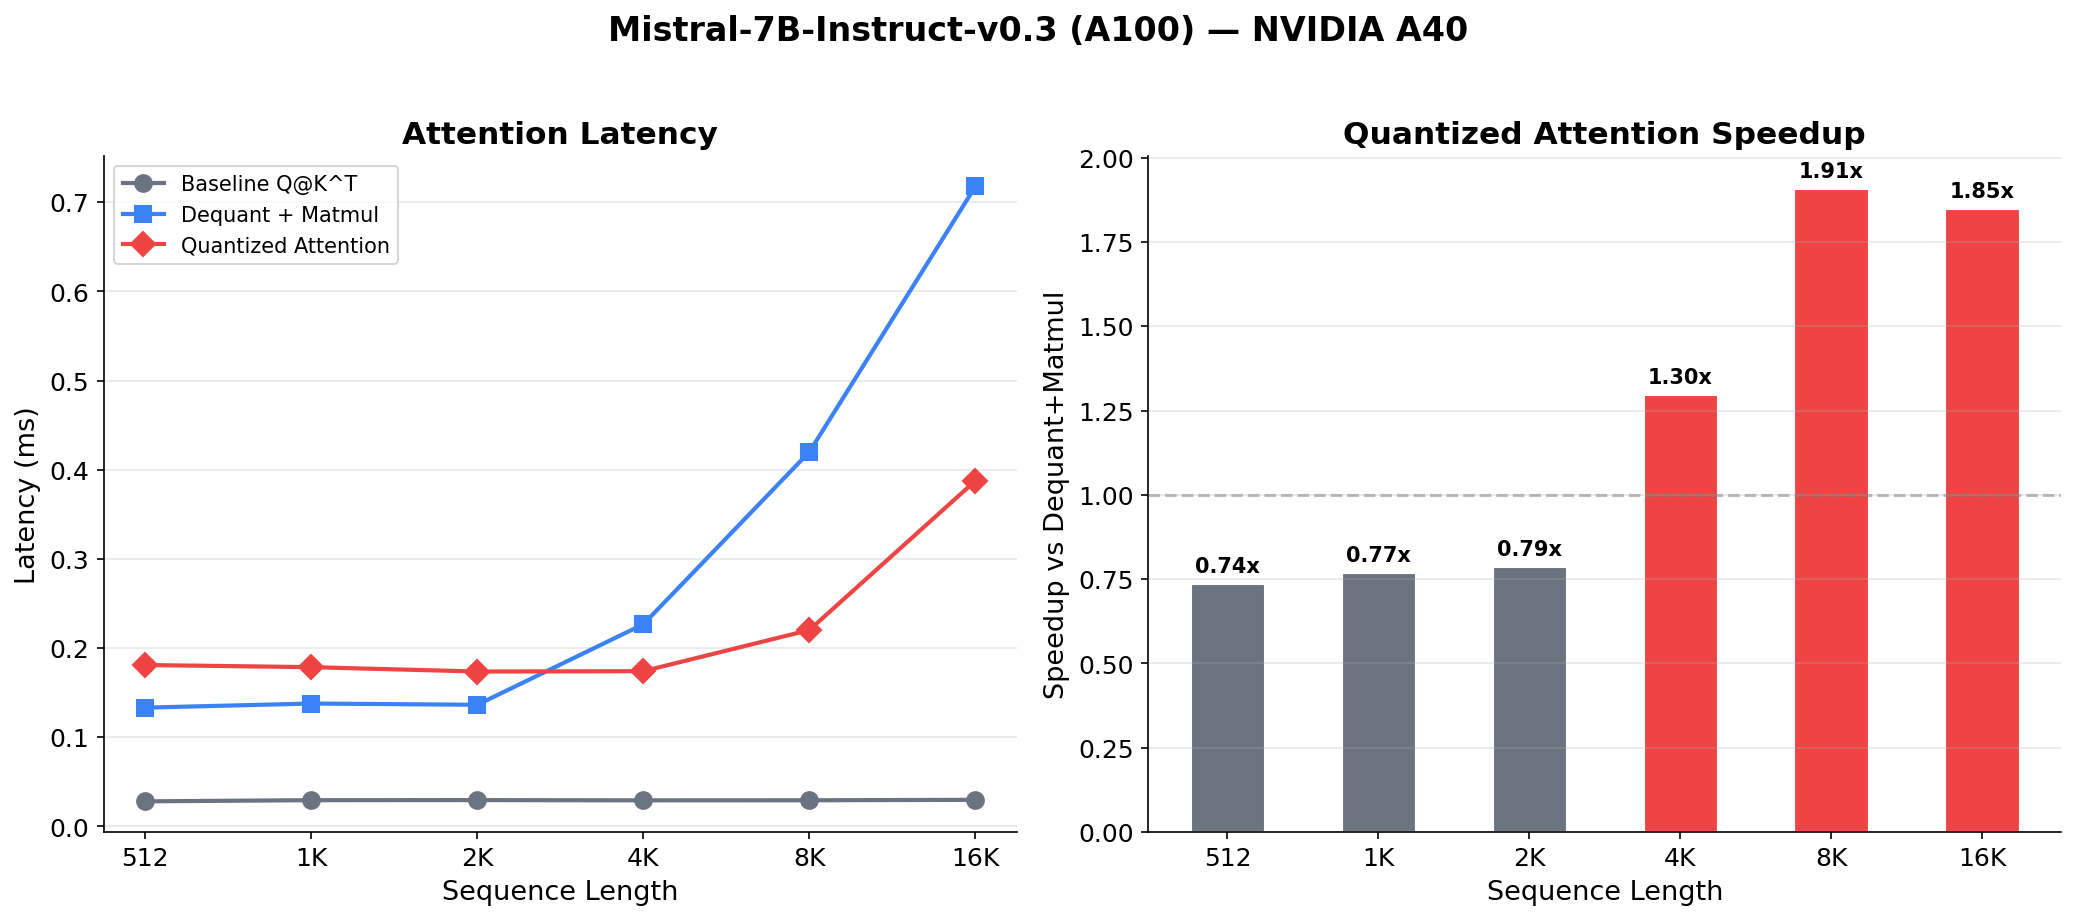
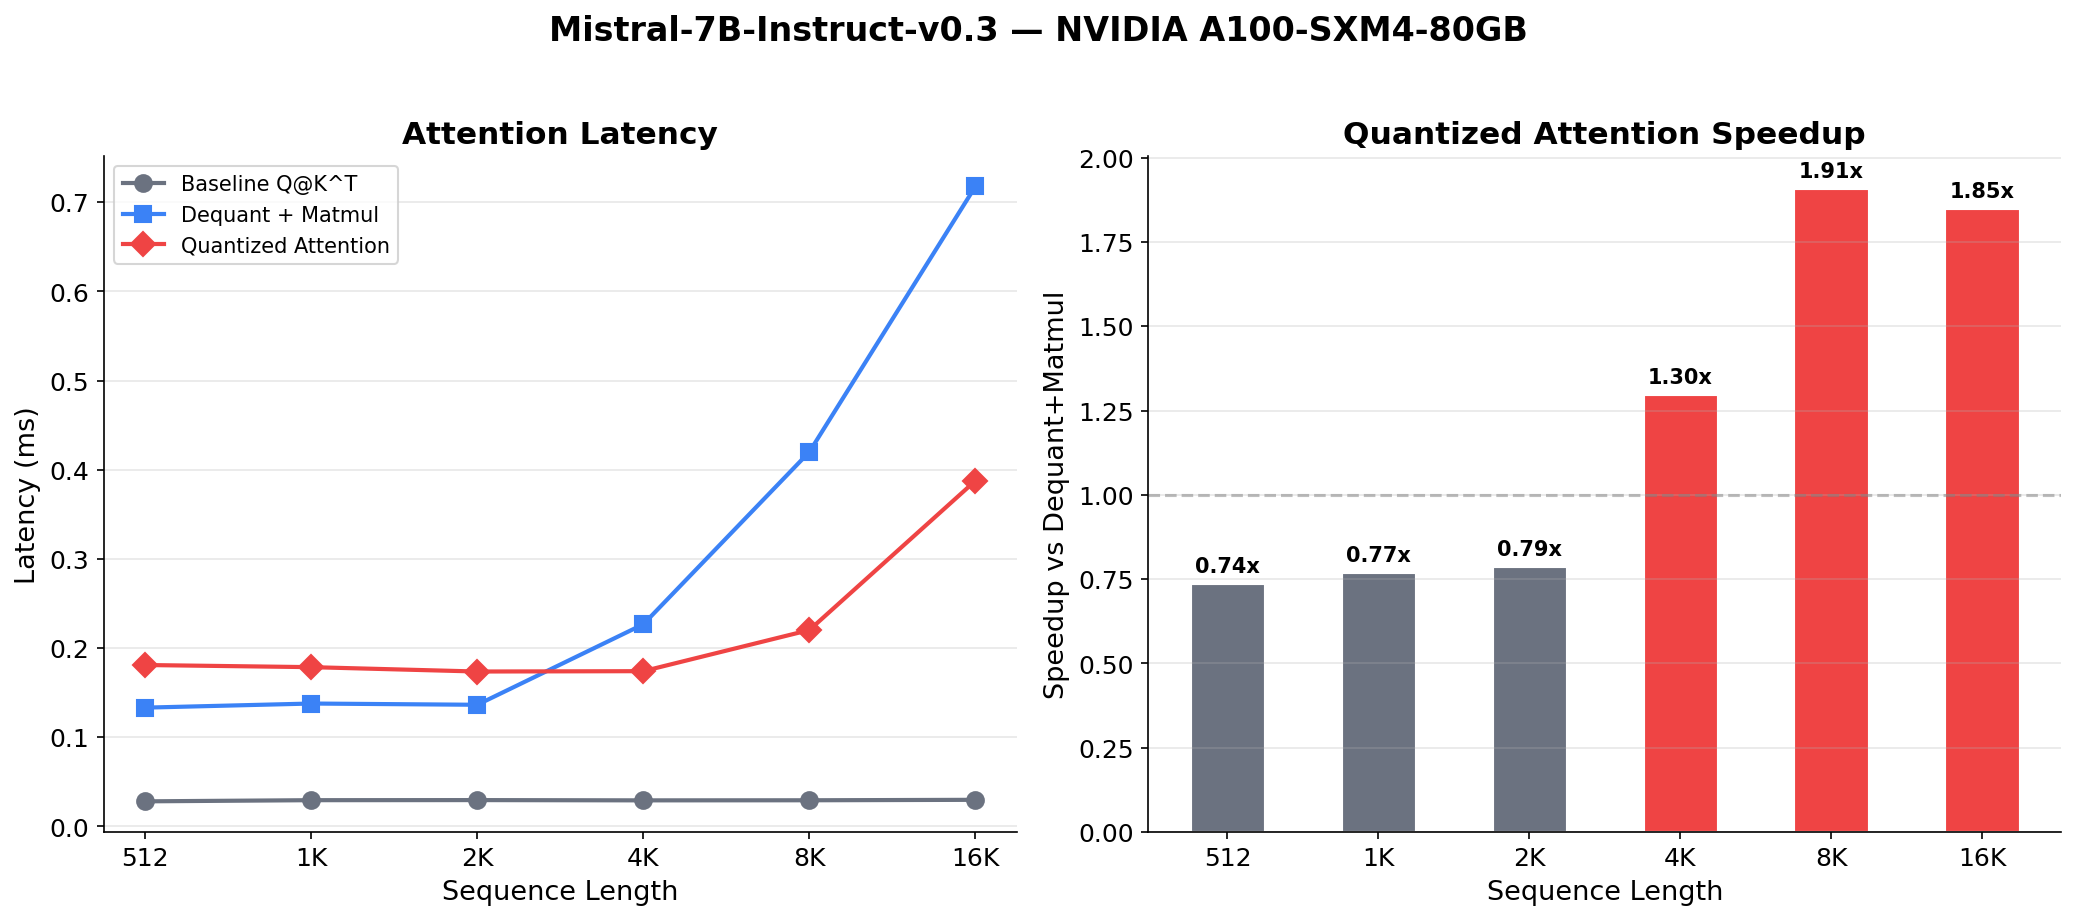
Update chart generation scripts and assets for TurboQuant
- Updated chart titles in generate_charts.py to dynamically reflect the GPU used instead of hardcoding "NVIDIA A40".
- Modified chart generation calls to remove the GPU designation from model names for improved clarity.
- Added new asset images for attention speedup, KV memory, and overview visualizations.

Changed region(s): [[0.2466, 0.0, 0.7399, 0.0609]]

diff --git a/scripts/generate_charts.py b/scripts/generate_charts.py
@@ -96,7 +96,7 @@ def chart_throughput(results, model_name, filename):
                 f'{t:.1f}', ha='center', va='bottom', fontweight='bold', fontsize=12)
 
     ax.set_ylabel('Tokens / sec')
-    ax.set_title(f'Generation Throughput — {model_name} (NVIDIA A40)')
+    ax.set_title(f'Generation Throughput — {model_name} ({results.get("gpu", "GPU")})')
     ax.set_ylim(0, max(tps) * 1.25)
     _clean_axes(ax)
 
@@ -128,7 +128,7 @@ def chart_compression_vs_speed(results, model_name, filename):
 
     ax.set_xlabel('Compression Ratio (vs FP16)')
     ax.set_ylabel('Generation (tokens/sec)')
-    ax.set_title(f'Compression vs Speed — {model_name} (NVIDIA A40)')
+    ax.set_title(f'Compression vs Speed — {model_name} ({results.get("gpu", "GPU")})')
     ax.spines['top'].set_visible(False)
     ax.spines['right'].set_visible(False)
     ax.grid(alpha=0.3)
@@ -178,7 +178,8 @@ def chart_attention_speedup(results, model_name, filename):
     ax2.set_title('Quantized Attention Speedup')
     _clean_axes(ax2)
 
-    fig.suptitle(f'{model_name} — NVIDIA A40', fontsize=16, fontweight='bold', y=1.02)
+    gpu = results.get("gpu", "GPU")
+    fig.suptitle(f'{model_name} — {gpu}', fontsize=16, fontweight='bold', y=1.02)
     plt.tight_layout()
     plt.savefig(ASSETS / filename, dpi=150, bbox_inches='tight')
     plt.close()
@@ -191,6 +192,7 @@ def chart_overview(results, model_name, filename):
     tps_vals = [avg(results, k, 'tps') for k in configs]
     colors = [COLORS[k] for k in configs]
     labels = [LABELS[k] for k in configs]
+    gpu = results.get("gpu", "GPU")
 
     baseline_mem = mems_mb[0]
     ratios = [baseline_mem / m if m > 0 else 1.0 for m in mems_mb]
@@ -231,7 +233,7 @@ def chart_overview(results, model_name, filename):
     ax3.spines['right'].set_visible(False)
     ax3.grid(alpha=0.3)
 
-    fig.suptitle(f'TurboQuant — {model_name} (NVIDIA A40)',
+    fig.suptitle(f'TurboQuant — {model_name} ({gpu})',
                  fontsize=16, fontweight='bold')
     plt.tight_layout()
     plt.savefig(ASSETS / filename, dpi=150, bbox_inches='tight')
@@ -432,9 +434,9 @@ if __name__ == "__main__":
         prefix = a100_file.stem
 
         print(f"Generating A100 charts for {model_short}...")
-        chart_overview(data, f"{model_short} (A100)", f"{prefix}_overview.png")
-        chart_kv_memory(data, f"{model_short} (A100)", f"{prefix}_kv_memory.png")
-        chart_attention_speedup(data, f"{model_short} (A100)", f"{prefix}_attention_speedup.png")
+        chart_overview(data, model_short, f"{prefix}_overview.png")
+        chart_kv_memory(data, model_short, f"{prefix}_kv_memory.png")
+        chart_attention_speedup(data, model_short, f"{prefix}_attention_speedup.png")
         print()
 
     for needle_name in ["needle_mistral_7b.json", "needle_eval.json"]:
